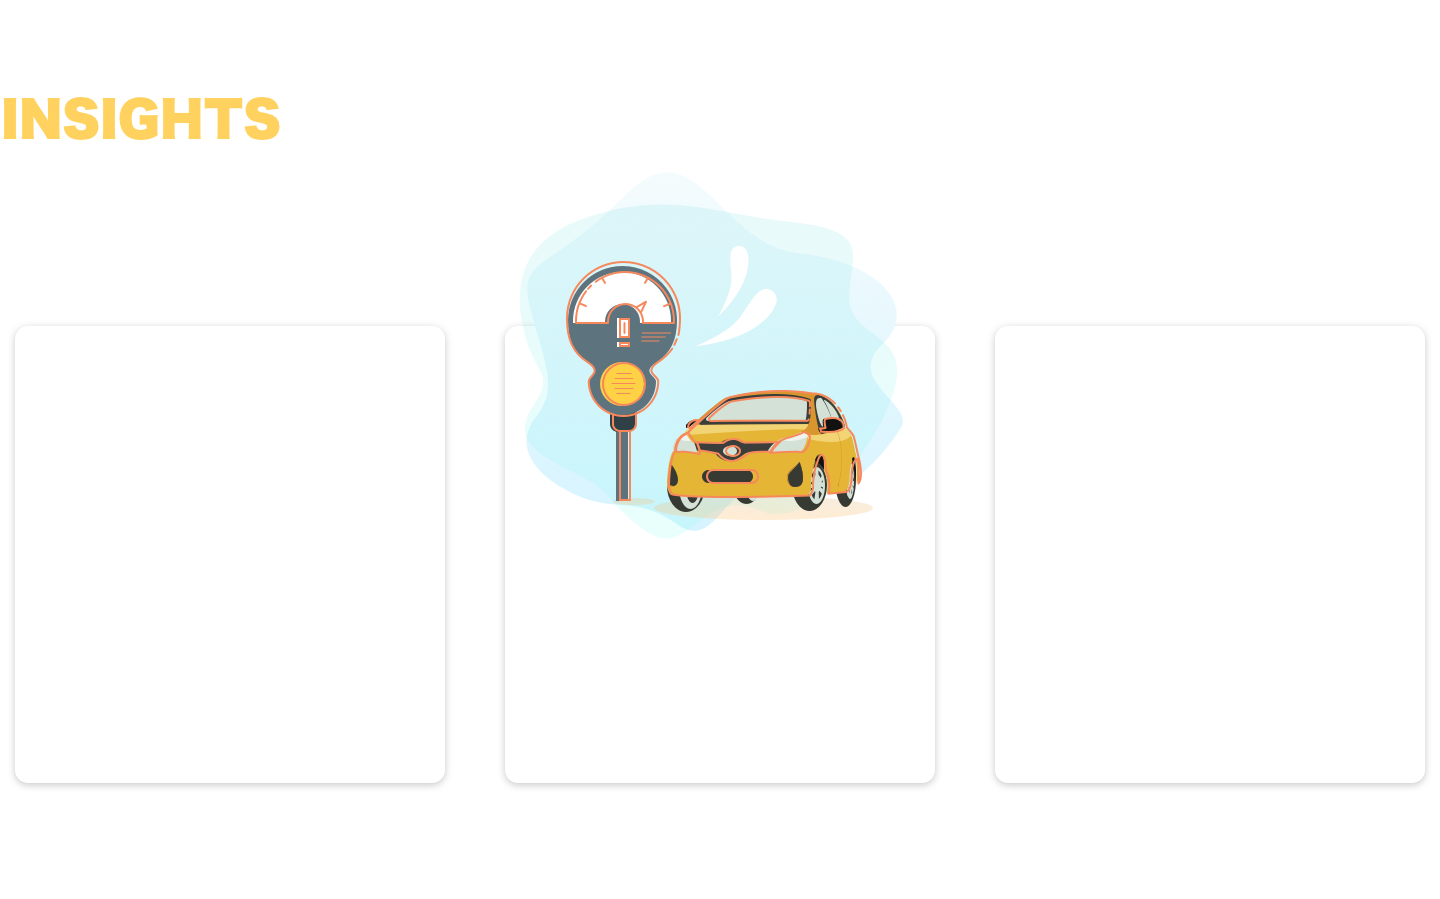
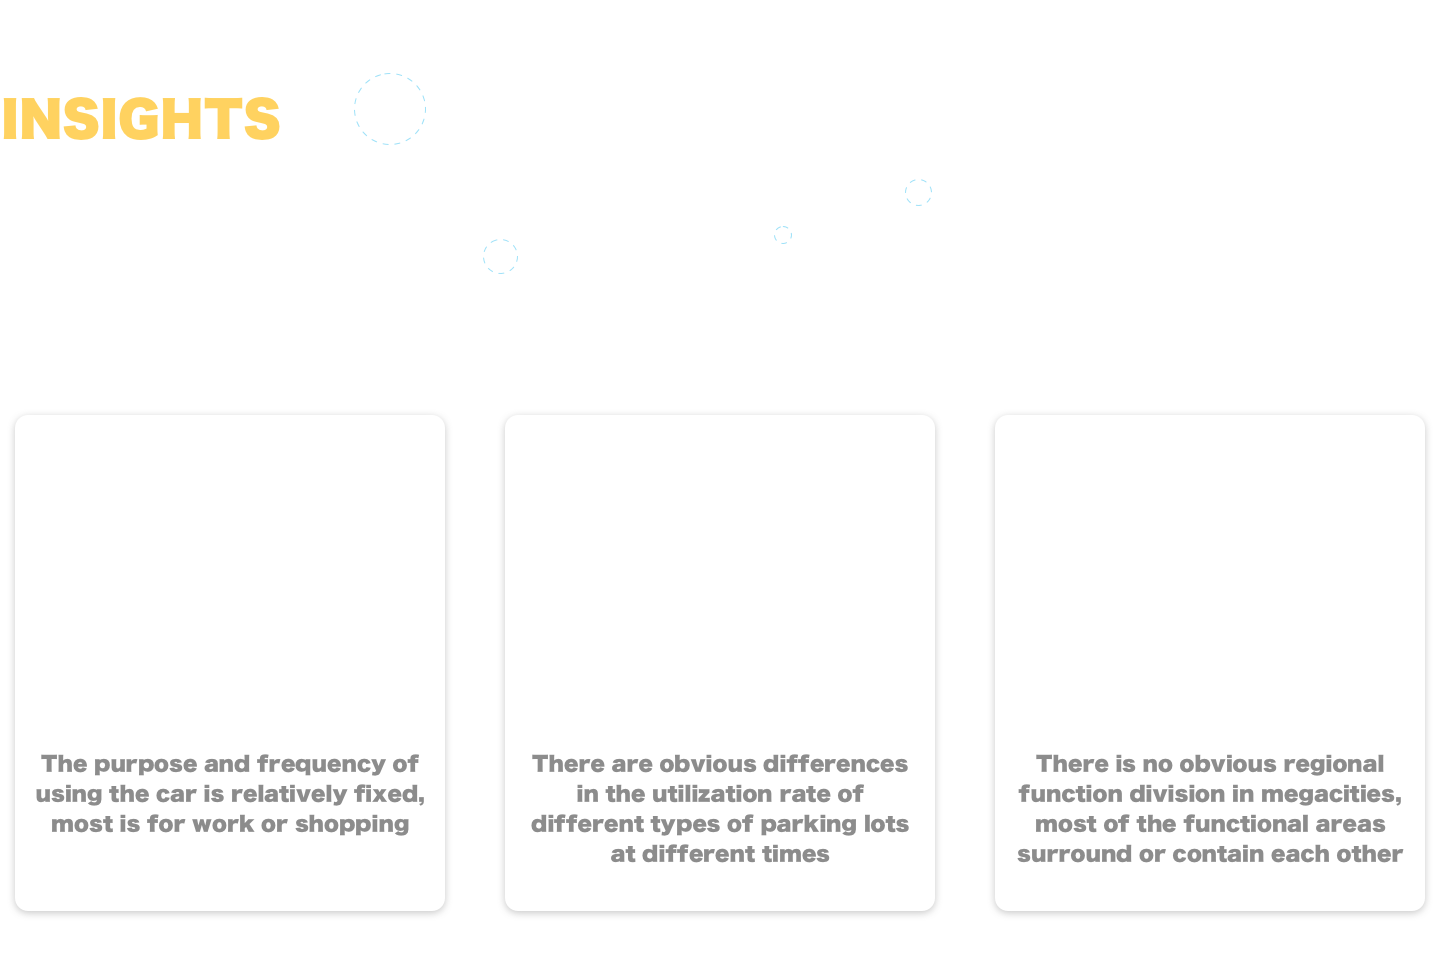
updates

diff --git a/wepark.html b/wepark.html
@@ -32,7 +32,8 @@
 <image src="img/wepark/highlights.png"></image>
 <a href="#ref1"></a><a href="#ref2"></a><image src="img/wepark/problems.png"></image>
 <image src="img/wepark/userstudy.png"></image>
-<image src="img/wepark/insights.png"></image>
+<image src="img/wepark/insights.gif"></image>
+<image src="img/wepark/solution.png"></image>
 <image src="img/wepark/features.png"></image>
 <image src="img/wepark/space.png"></image>
 <image src="img/wepark/login.gif"></image>
